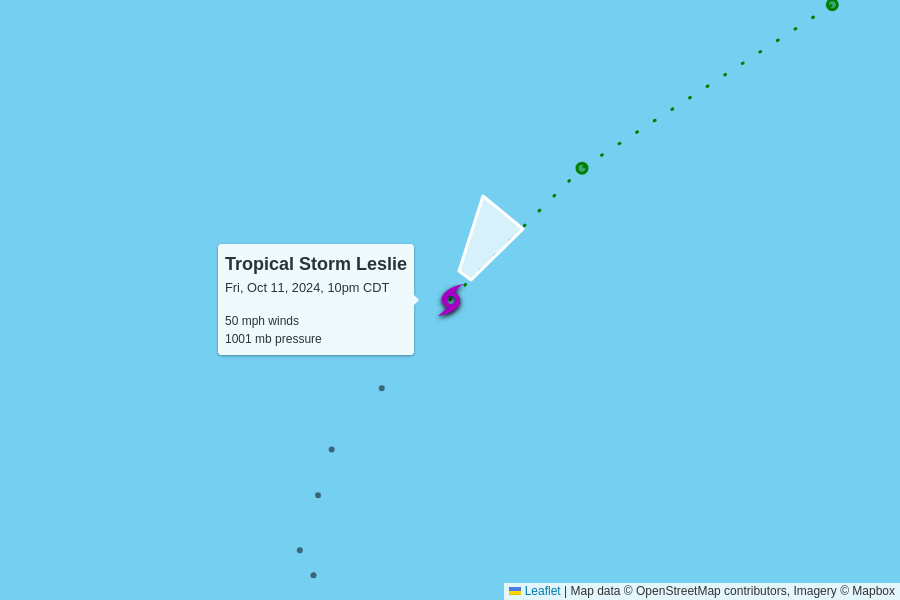
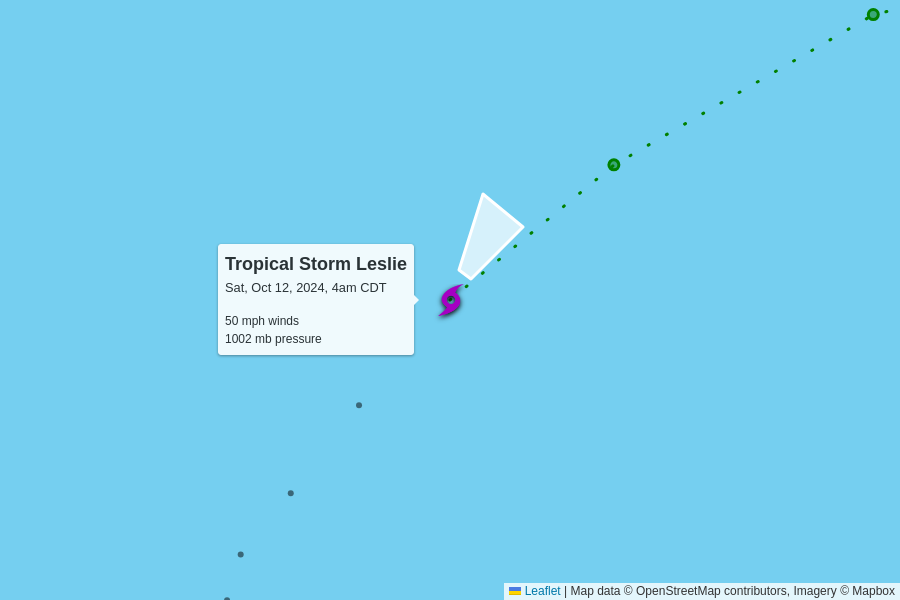
automatic update

diff --git a/docs/index.html b/docs/index.html
@@ -102,7 +102,7 @@
         <td colspan="6" class="storm category-0" >
           <h2>
             Tropical Storm Leslie
-            <p class="updated">last updated <span data-time>2024-10-12T03:00:00.000Z</span></p>
+            <p class="updated">last updated <span data-time>2024-10-12T09:00:00.000Z</span></p>
           </h2>
         </td>
       </tr>
@@ -118,9 +118,9 @@
       <tr>
         <td class="spacer"></td>
         <td>50 mph<br>0 mph since last update</td>
-        <td>1001 mb<br>+1 mb since last update</td>
+        <td>1002 mb<br>+1 mb since last update</td>
         <td>
-          22 mph to the northeast
+          24 mph to the northeast
           <br/>
           <span style="display: inline-block; font-size: 1.5em; transform: rotate(35deg);">↑</span>
         </td>
